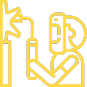
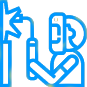
changes ashwin

diff --git a/about-us.html b/about-us.html
@@ -162,19 +162,19 @@
         <section class="feature_content">
             <div class="container">
                 <div class="row">
-                    <div class="col-md-4 col-sm-6">
+                  <!--   <div class="col-md-4 col-sm-6">
                         <div class="f_content_item">
-                            <i class="fa fa-ge" aria-hidden="true"></i>
+                            <i class="fa fa-empire" aria-hidden="true"></i>
                             <a href="#"><h4>innovative</h4></a>
                         </div>
-                    </div>
-                    <div class="col-md-4 col-sm-6">
+                    </div> -->
+                    <div class="col-md-6 col-sm-6">
                         <div class="f_content_item">
                             <i class="fa fa-building" aria-hidden="true"></i>
                             <a href="#"><h4>quality products</h4></a>
                         </div>
                     </div>
-                    <div class="col-md-4 col-sm-6">
+                    <div class="col-md-6 col-sm-6">
                         <div class="f_content_item">
                             <i class="fa fa-money" aria-hidden="true"></i>
                             <a href="#"><h4>save money</h4></a>
@@ -317,10 +317,10 @@
                                         <li><H5>AGD TRADERS , Melavalampettai , 9994332283</H5></li>
                                         <li><H5>AGD STEELS , Chengalpet , 9994334283</H5></li>
                                         <li><H5>ASOK TRADERS , Kovilambakkam , 9500955283</H5></li>
-                                        <li><H5>SRI KALYANI STELLS , Pallikaranai , 9789863306</H5></li>
                                         <li><H5>SRI MAHALAKSHMI INFRASTRUCTURES , Chennai , 9994346052</H5></li>
                                         <li><H5>AGD LAW ASSOCIATES , Chennai , 9994388855</H5></li>
                                         <li><H5>SRI PERUMBALAN STEELS , Thiruvencherry , 984778822</H5></li>
+                                        <li><H5>SRI KALYANI STELLS , Pallikaranai , 9789863306</H5></li>
                                     </ul>
                                         
                                         
@@ -375,7 +375,7 @@
                 <div class="footer_copy_right">
                     <div class="container">
                         <h4><!-- Link back to Colorlib can't be removed. Template is licensed under CC BY 3.0. -->
-    Copyright &copy;<script>document.write(new Date().getFullYear());</script>| Asok Steels | by <a href="https://www.ziscorp.com">Ziscorp</a></h4>
+    Copyright &copy;<script>document.write(new Date().getFullYear());</script>| Asok Steels | Powered by <a href="https://www.ziscorp.com">Ziscorp</a></h4>
                     </div>
                 </div>
             </footer>

diff --git a/index.html b/index.html
@@ -40,7 +40,7 @@
        
         <!--================Header Area =================-->
         <header class="main_header_area">
-            <div class="header_top_area">
+           <!--  <div class="header_top_area">
                 <div class="container">
                     <div class="pull-left">
                         <a href="#"><i class="fa fa-phone"></i></a>
@@ -56,7 +56,7 @@
                         </ul>
                     </div>
                 </div>
-            </div>
+            </div> -->
             <div class="main_menu_area">
                 <div class="container">
                     <nav class="navbar navbar-default">
@@ -273,6 +273,12 @@
                 <div class="pull-right">
                     <a style="border-color: #00afef" class="get_btn" href="contact-us.html">GET A QUOTE</a>
                 </div>
+            </div>
+            <div class="getqk">
+                <a href="#"><i class="fa fa-phone"></i></a>
+                <a href="#"><i class="fa fa-map-marker"></i>106/14, KH Road, Korrukkupet, Old Washermanpet, 
+                    Chennai-600021, Tamil Nadu, India</a>
+                <a href="#"><i class="mdi mdi-clock"></i>08 AM - 10 PM</a>
             </div>
         </section>
         <!--================End Get Quote Area =================-->
@@ -685,10 +691,10 @@
                                     <li><H5>AGD TRADERS , Melavalampettai , 9994332283</H5></li>
                                     <li><H5>AGD STEELS , Chengalpet , 9994334283</H5></li>
                                     <li><H5>ASOK TRADERS , Kovilambakkam , 9500955283</H5></li>
-                                    <li><H5>SRI KALYANI STELLS , Pallikaranai , 9789863306</H5></li>
                                     <li><H5>SRI MAHALAKSHMI INFRASTRUCTURES , Chennai , 9994346052</H5></li>
                                     <li><H5>AGD LAW ASSOCIATES , Chennai , 9994388855</H5></li>
                                     <li><H5>SRI PERUMBALAN STEELS , Thiruvencherry , 984778822</H5></li>
+                                    <li><H5>SRI KALYANI STELLS , Pallikaranai , 9789863306</H5></li>
                                 </ul>
                                     
                                     
@@ -743,7 +749,7 @@
             <div class="footer_copy_right">
                 <div class="container">
                     <h4><!-- Link back to Colorlib can't be removed. Template is licensed under CC BY 3.0. -->
-Copyright &copy;<script>document.write(new Date().getFullYear());</script>| Asok Steels | by <a href="https://www.ziscorp.com">Ziscorp</a></h4>
+Copyright &copy;<script>document.write(new Date().getFullYear());</script>| Asok Steels | Powered by <a href="https://www.ziscorp.com">Ziscorp</a></h4>
                 </div>
             </div>
         </footer>

diff --git a/products.html b/products.html
@@ -193,7 +193,7 @@
                                                 </div>
                                                 <div class="col col-lg-4 col-md-4 col-sm-6 col-xs-12">
                                                         <img src="img/products/m-s-angle-01.jpg" class="imgsize">
-                                                        <h3>Ms Angle</h3>
+                                                        <h3>Ms Sheet</h3>
                                                     </div>
                                                     <div class="col col-lg-4 col-md-4 col-sm-6 col-xs-12">
                                                             <img src="img/products/m-s-square-01.jpg" class="imgsize">
@@ -357,10 +357,10 @@
                                     <li><H5>AGD TRADERS , Melavalampettai , 9994332283</H5></li>
                                     <li><H5>AGD STEELS , Chengalpet , 9994334283</H5></li>
                                     <li><H5>ASOK TRADERS , Kovilambakkam , 9500955283</H5></li>
-                                    <li><H5>SRI KALYANI STELLS , Pallikaranai , 9789863306</H5></li>
                                     <li><H5>SRI MAHALAKSHMI INFRASTRUCTURES , Chennai , 9994346052</H5></li>
                                     <li><H5>AGD LAW ASSOCIATES , Chennai , 9994388855</H5></li>
                                     <li><H5>SRI PERUMBALAN STEELS , Thiruvencherry , 984778822</H5></li>
+                                    <li><H5>SRI KALYANI STELLS , Pallikaranai , 9789863306</H5></li>
                                 </ul>
                                     
                                     
@@ -415,7 +415,7 @@
             <div class="footer_copy_right">
                 <div class="container">
                     <h4><!-- Link back to Colorlib can't be removed. Template is licensed under CC BY 3.0. -->
-Copyright &copy;<script>document.write(new Date().getFullYear());</script>| Asok Steels | by <a href="https://www.ziscorp.com">Ziscorp</a></h4>
+Copyright &copy;<script>document.write(new Date().getFullYear());</script>| Asok Steels | Powered by <a href="https://www.ziscorp.com">Ziscorp</a></h4>
                 </div>
             </div>
         </footer>

diff --git a/contact-us.html b/contact-us.html
@@ -299,10 +299,10 @@
                                         <li><H5>AGD TRADERS , Melavalampettai , 9994332283</H5></li>
                                         <li><H5>AGD STEELS , Chengalpet , 9994334283</H5></li>
                                         <li><H5>ASOK TRADERS , Kovilambakkam , 9500955283</H5></li>
-                                        <li><H5>SRI KALYANI STELLS , Pallikaranai , 9789863306</H5></li>
                                         <li><H5>SRI MAHALAKSHMI INFRASTRUCTURES , Chennai , 9994346052</H5></li>
                                         <li><H5>AGD LAW ASSOCIATES , Chennai , 9994388855</H5></li>
                                         <li><H5>SRI PERUMBALAN STEELS , Thiruvencherry , 984778822</H5></li>
+                                        <li><H5>SRI KALYANI STELLS , Pallikaranai , 9789863306</H5></li>
                                     </ul>
                                         
                                         
@@ -357,7 +357,7 @@
                 <div class="footer_copy_right">
                     <div class="container">
                         <h4><!-- Link back to Colorlib can't be removed. Template is licensed under CC BY 3.0. -->
-    Copyright &copy;<script>document.write(new Date().getFullYear());</script>| Asok Steels | by <a href="https://www.ziscorp.com">Ziscorp</a></h4>
+    Copyright &copy;<script>document.write(new Date().getFullYear());</script>| Asok Steels | Powered by <a href="https://www.ziscorp.com">Ziscorp</a></h4>
                     </div>
                 </div>
             </footer>

diff --git a/css/responsive.css b/css/responsive.css
@@ -138,13 +138,13 @@
 	.navbar-toggle {
 		margin-top: 20px;
 		margin-bottom: 20px;
-		border: 1px solid #ffcd00 !important;
+		border: 1px solid #00afef !important;
 		border-radius: 0px;
 		background: transparent !important;
 		margin-right: 0px;
 	}
 	.navbar-toggle .icon-bar {
-		background-color: #ffcd00 !important;
+		background-color: #00afef !important;
 	}
 	.main_slider_area .rev_slider .tp-bullets .tp-bullet:hover, .main_slider_area .rev_slider .tp-bullets .tp-bullet.selected {
 		display: none;
@@ -272,7 +272,7 @@
 	}
 	.our_project2_area .our_project_filter li.active a {
 		border: none;
-		color: #ffcd00;
+		color: #00afef;
 	}
 	.copy_right_inner .pull-left{
 		float: none !important;

diff --git a/css/style.css b/css/style.css
@@ -235,6 +235,17 @@ h1{
   padding:15px;
 }
 
+.getqk a
+{
+  
+  color: #fff !important;
+}
+
+.getqk 
+{
+  text-align: center;
+}
+
 .goc
 {
   color: white;
@@ -400,7 +411,7 @@ padding-left: 40px;
 
 .products-list li a:hover
 {
-  color: #fdcd30 !important;
+  color: #00afef !important;
 }
 
 .multi-level li
